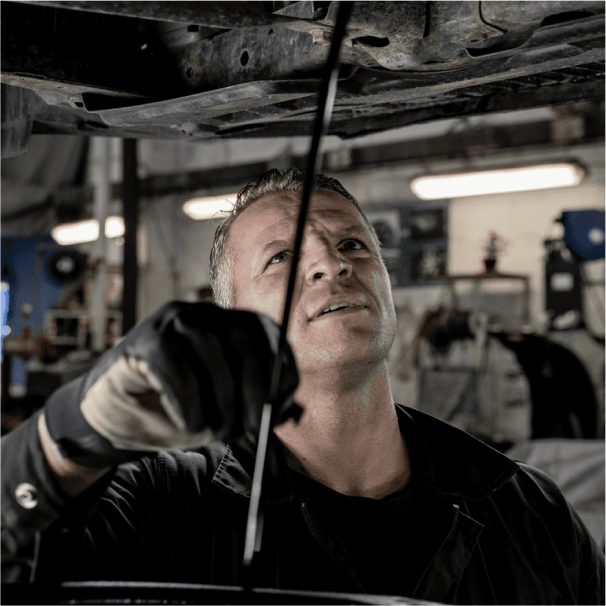
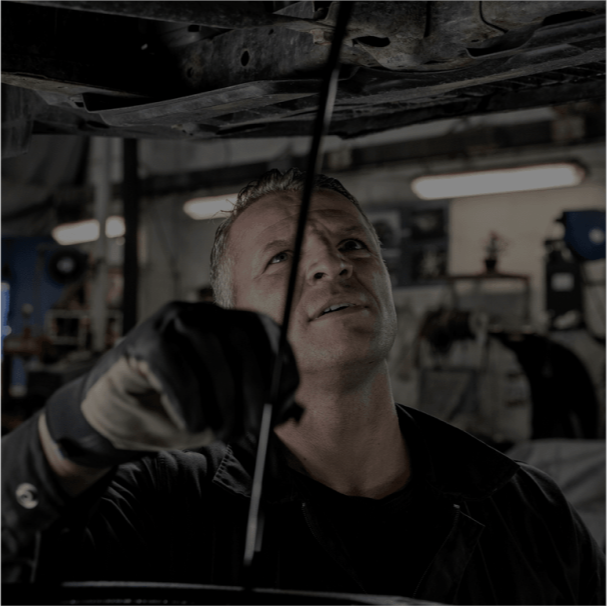
More revisions

diff --git a/src/components/landing/landing-value.tsx b/src/components/landing/landing-value.tsx
@@ -6,29 +6,36 @@ import { Wrench } from "lucide-react";
 const LandingValue = () => {
   return (
     <div>
-      <LandingWrapper className="flex flex-col items-start justify-center text-start py-40">
+      <LandingWrapper className="flex flex-col items-start justify-center text-start py-16 md:py-40">
         <div className="flex flex-col md:flex-row justify-between w-full">
-          <h2 className="text-black text-4xl md:text-5xl font-semibold">
-            Onze waardepropositie
-          </h2>
+          <div className="flex flex-col">
+            <h2 className="text-black text-4xl md:text-5xl font-semibold">
+              Onze waardepropositie
+            </h2>
+            <p className="text-lg text-black/60 w-full md:w-[55%] mt-4">
+              Ontdek onze waardepropositie - een toewijding aan uitmuntendheid,
+              topklasse professionals en de beste gereedschappen om ervoor te
+              zorgen dat uw voertuig ongeëvenaarde zorg ontvangt.
+            </p>
+          </div>
           <Button size="xl" className=" uppercase mt-8 md:mt-0 w-fit">
-            Leer meer over ons.
+            Leer meer over ons
           </Button>
         </div>
 
-        <div className="flex flex-col md:flex-row justify-between gap-10 md:gap-10 w-full mt-20">
+        <div className="flex flex-col md:flex-row justify-between gap-5 md:gap-10 w-full mt-12 md:mt-20">
           <div className="w-full py-20 md:py-20 flex items-center justify-center bg-[#f0f0f0] shadow-sm rounded-xl px-4">
             <div className="flex flex-col items-center text-center">
               <Image
-                width={75}
-                height={75}
+                width={90}
+                height={90}
                 src="/icons/professional.svg"
                 alt="Facebook"
               />
               <h3 className="text-2xl text-black font-medium mt-8">
                 Topklasse <span className="text-primary">Professionals</span>
               </h3>
-              <p className="text-black/60 text-lg w-full">
+              <p className="text-black/60 text-lg w-full mt-3">
                 Ervaren professionals van topklasse, toonaangevend in
                 deskundigheid en hoogwaardige servicekwaliteit voor een
                 ongeëvenaarde auto-ervaring.
@@ -39,8 +46,8 @@ const LandingValue = () => {
           <div className="w-full py-20 md:py-20 flex items-center justify-center bg-[#f0f0f0] shadow-sm rounded-xl px-4">
             <div className="flex flex-col items-center text-center">
               <Image
-                width={75}
-                height={75}
+                width={90}
+                height={90}
                 src="/icons/perform.svg"
                 alt="Facebook"
               />
@@ -48,7 +55,7 @@ const LandingValue = () => {
                 Toewijding om te <span className="text-primary">presteren</span>
                 .
               </h3>
-              <p className="text-black/60 text-lg w-full">
+              <p className="text-black/60 text-lg w-full mt-3">
                 Toewijding aan uitzonderlijke prestaties, altijd strevend naar
                 perfectie en klanttevredenheid met betrouwbare dienstverlening.
               </p>
@@ -58,15 +65,15 @@ const LandingValue = () => {
           <div className="w-full py-20 md:py-20 flex items-center justify-center bg-[#f0f0f0] shadow-sm rounded-xl px-4">
             <div className="flex flex-col items-center text-center">
               <Image
-                width={75}
-                height={75}
+                width={90}
+                height={90}
                 src="/icons/tool.svg"
                 alt="Facebook"
               />
               <h3 className="text-2xl text-black font-medium mt-8">
                 Beste <span className="text-primary">gereedschappen</span>.
               </h3>
-              <p className="text-black/60 text-lg w-full">
+              <p className="text-black/60 text-lg w-full mt-3">
                 Gebruik van geavanceerde en hoogwaardige gereedschappen,
                 garanderend dat uw voertuig de best mogelijke zorg en service
                 ontvangt.

diff --git a/src/components/landing/landing-footer.tsx b/src/components/landing/landing-footer.tsx
@@ -1,21 +1,13 @@
+import { Clock, Mail, MapPin, Phone } from "lucide-react";
 import Image from "next/image";
-import LandingWrapper from "../wrapper/landing-wrapper";
-import {
-  Clock,
-  Facebook,
-  Linkedin,
-  Mail,
-  MapPin,
-  Phone,
-  Twitter,
-} from "lucide-react";
-import { Separator } from "../ui/separator";
 import Link from "next/link";
+import { Separator } from "../ui/separator";
+import LandingWrapper from "../wrapper/landing-wrapper";
 
 const LandingFooter = () => {
   return (
-    <footer className="pt-32 pb-20 bg-black">
-      <LandingWrapper className="flex flex-col items-start justify-center text-start">
+    <footer className="pt-20 md:pt-32 pb-12 md:pb-20 bg-black">
+      <LandingWrapper className="flex flex-col items-start justify-center text-start px-6 md:px-20 xl:px-20 2xl:px-40">
         <div className="w-full flex flex-col md:flex-row gap-10 md:gap-0 md:justify-between">
           <div className="md:hidden">
             <Image width={120} height={70} src="/images/logo.png" alt="Logo" />
@@ -29,17 +21,17 @@ const LandingFooter = () => {
               Vind Ons
             </h4>
             <div className="flex flex-row space-x-4 mt-6 items-start">
-              <MapPin />
+              <MapPin color="#FF8710" />
               <p>
                 Industry road 101 8071DD <br /> Nunspeet
               </p>
             </div>
             <div className="flex flex-row space-x-4 mt-6">
-              <Phone />
+              <Phone color="#FF8710" />
               <p>0341-251 300</p>
             </div>
             <div className="flex flex-row space-x-4 mt-6">
-              <Mail />
+              <Mail color="#FF8710" />
               <p>info@autoschades.nl</p>
             </div>
           </div>
@@ -49,13 +41,13 @@ const LandingFooter = () => {
               Openingstijden
             </h4>
             <div className="flex flex-row space-x-4 mt-6 items-start">
-              <Clock />
+              <Clock color="#FF8710" />
               <p>
                 Maandag tot en met vrijdag <br /> 07.00 - 17.00 uur
               </p>
             </div>
             <div className="flex flex-row items-start space-x-4 mt-6">
-              <Clock />
+              <Clock color="#FF8710" />
               <p>
                 Zaterdag <br /> 07.00 - 13.00 uur
               </p>
@@ -101,8 +93,8 @@ const LandingFooter = () => {
             </p>
           </div>
         </div>
-        <Separator className="bg-white/10 mt-20" orientation="horizontal" />
-        <div className="flex flex-col md:flex-row w-full justify-between text-center md:text-start text-sm md:text-base text-white/50 mt-20">
+        <Separator className="bg-white/10 mt-10 md:mt-20" orientation="horizontal" />
+        <div className="flex flex-col md:flex-row w-full justify-between text-center md:text-start text-sm md:text-base text-white/50 mt-10 md:mt-20">
           <p>AUTOSCHADES.NL © 2023 Alle rechten voorbehouden</p>
 
           <div className="flex flex-col md:flex-row gap-4 md:gap-8 mt-6 md:mt-0">

diff --git a/src/components/landing/landing-services.tsx b/src/components/landing/landing-services.tsx
@@ -6,13 +6,14 @@ import { ArrowRight } from "lucide-react";
 const LandingServices = () => {
   return (
     <div className="">
-      <LandingWrapper className=" bg-[#FFE6CC] flex flex-col items-start justify-center text-start py-20 md:py-40">
+      <LandingWrapper className=" bg-[#FFE6CC] flex flex-col items-start justify-center text-start py-20 md:py-40 px-5 md:px-20 xl:px-20 2xl:px-40">
         <h2 className="text-black text-5xl font-semibold">
           Onze diensten en producten.
         </h2>
         <p className="text-lg text-black/60 mt-6">
-          Ontdek onze diensten en producten voor topzorg aan uw auto, <br /> met
-          ervaren professionals en moderne apparatuur.
+          Ontdek onze diensten en producten voor topzorg aan uw auto,{" "}
+          <br className="hidden md:block" /> met ervaren professionals en
+          moderne apparatuur.
         </p>
 
         <div className="w-full flex flex-col md:flex-row gap-10 md:gap-12 xl:gap-4 2xl:gap-8 mt-20">
@@ -28,7 +29,7 @@ const LandingServices = () => {
                 UITGEBREIDE AUTO REPARATIES VOOR ALLE MERKEN EN MODELLEN.
               </h4>
               <Button size="xl" className=" uppercase mt-4">
-                Bekijk onze diensten.
+                Bekijk onze diensten
                 <ArrowRight className="ml-2" />
               </Button>
             </div>
@@ -46,7 +47,7 @@ const LandingServices = () => {
                 KWALITEIT AUTOMOBIEL ACCESSOIRES VOOR VERBETERDE PRESTATIES.
               </h4>
               <Button size="xl" className=" uppercase mt-4">
-                Bekijk onze producten.
+                Bekijk onze producten
                 <ArrowRight className="ml-2" />
               </Button>
             </div>
@@ -64,7 +65,7 @@ const LandingServices = () => {
                 UITGEBREID ONDERHOUD VOOR OPTIMALE VOERTUIGPRESTATIES.
               </h4>
               <Button size="xl" className=" uppercase mt-4">
-                Bekijk onze producten.
+                Bekijk onze producten
                 <ArrowRight className="ml-2" />
               </Button>
             </div>

diff --git a/src/components/landing/landing-about.tsx b/src/components/landing/landing-about.tsx
@@ -6,18 +6,21 @@ import { ArrowUpRight } from "lucide-react";
 const LandingAbout = () => {
   return (
     <div id="start">
-      <LandingWrapper className="flex flex-col items-start justify-center text-start py-40">
-        <h2 className="text-black text-4xl md:text-5xl font-semibold">
+      <LandingWrapper className="flex flex-col items-start justify-center text-start pt-24 pb-16 md:pt-40 md:pb-40">
+        <h2 className="text-black text-4xl md:text-5xl font-semibold md:hidden">
           Welkom bij ons auto <br /> reparatiecentrum.
         </h2>
 
-        <div className="w-full flex flex-col md:flex-row mt-12 gap-20 items-center">
+        <div className="w-full flex flex-col md:flex-row mt-4 md:mt-12 gap-12 md:gap-20 items-center">
           <div>
-            <h4 className="mb-4 md:mb-8 text-2xl text-black font-medium">
+            {/* <h4 className="mb-8 hidden md:block text-2xl text-black font-medium">
               WELKOM BIJ EEN NIEUW NIVEAU VAN <br className="hidden md:block" />{" "}
               AUTO REPARATIE-UITMUNTENDHEID.
-            </h4>
-            <p className="text-lg text-black/60 w-full md:w-[75%]">
+            </h4> */}
+            <h2 className="text-black text-4xl md:text-5xl font-semibold hidden md:block">
+              Welkom bij ons auto <br /> reparatiecentrum.
+            </h2>
+            <p className="text-lg text-black/60 w-full md:w-[75%] md:mt-10">
               Van routinematig onderhoud tot complexe reparaties, wij beschikken
               over de expertise en geavanceerde apparatuur om u veilig en snel
               weer op weg te helpen. Ervaar het verschil van samenwerken met
@@ -25,7 +28,7 @@ const LandingAbout = () => {
             </p>
 
             <Button size="xl" className=" uppercase mt-8 md:mt-12">
-              Leer meer over ons.
+              Leer meer over ons
               <ArrowUpRight className="ml-2" />
             </Button>
           </div>

diff --git a/src/components/landing/landing-nav-mobile.tsx b/src/components/landing/landing-nav-mobile.tsx
@@ -1,8 +1,15 @@
-import { Menu } from "lucide-react";
+"use client";
+
+import { Menu, X } from "lucide-react";
 import Image from "next/image";
 import LandingWrapper from "../wrapper/landing-wrapper";
+import Link from "next/link";
+import { useState } from "react";
+import { landingNavLinks } from "@/app/constants";
 
 const LandingNavMobile = () => {
+  const [toggle, setToggle] = useState(false);
+
   return (
     <nav className="z-50 absolute w-full flex flex-col py-4">
       <LandingWrapper className="flex flex-row justify-between items-center">
@@ -10,8 +17,29 @@ const LandingNavMobile = () => {
           <Image width={150} height={75} src="/images/logo.png" alt="Logo" />
         </div>
 
-        <div className="flex w-12 h-12 rounded-xl items-center justify-center bg-primary">
-          <Menu color="white" />
+        <div onClick={() => setToggle((prev) => !prev)} className="md:hidden">
+          <div className="w-12 h-12 rounded-xl bg-primary flex items-center justify-center">
+            {toggle ? <X color="white" /> : <Menu color="white" />}
+          </div>
+        </div>
+
+        <div
+          className={`${
+            toggle ? "flex" : "hidden"
+          } p-6 bg-primary absolute top-20 right-0 mx-4 my-2 min-w-[140px] rounded-xl z-20`}
+        >
+          <ul className="list-none flex-col justify-end items-center flex-1">
+            {landingNavLinks.map((nav, index) => (
+              <li
+                key={nav.title}
+                className={`font-dmSans font-normal cursor-pointer text-[16px] ${
+                  index === landingNavLinks.length - 1 ? "mr-0" : "mb-4"
+                } text-white mr-10`}
+              >
+                <Link href={`${nav.href}`}>{nav.title}</Link>
+              </li>
+            ))}
+          </ul>
         </div>
       </LandingWrapper>
     </nav>

diff --git a/src/components/landing/landing-hero.tsx b/src/components/landing/landing-hero.tsx
@@ -11,16 +11,16 @@ const LandingHero = () => {
     <div className="">
       <LandingWrapper className="flex flex-col items-center justify-center text-start">
         <div className="z-10 w-full items-start justify-center flex flex-col -mt-10 md:-mt-10 h-screen">
-          <p className="mt-2 md:mt-5 w-full md:w-[60%] text-xl md:text-xl text-white text-start">
+          <p className="w-full md:w-[60%] text-lg md:text-xl text-white/70 text-start">
             EXPERT AUTO REPARATIES VOOR ELKE BEHOEFTE.
           </p>
-          <h1 className="md:max-w-5xl text-5xl font-semibold md:text-6xl lg:text-[72px] lg:leading-[1.2] text-white mt-6 md:mt-6">
+          <h1 className="md:max-w-5xl text-5xl font-semibold md:text-6xl lg:text-[72px] lg:leading-[1.2] text-white mt-2 md:mt-2">
             Rijd met <span className="text-primary">vertrouwen</span>.
           </h1>
           <h1 className="md:max-w-5xl text-5xl font-semibold md:text-6xl lg:text-[72px] lg:leading-[1.2] text-white md:-mt-0">
             Kies voor <span className="text-primary">ons</span>.
           </h1>
-          <p className="mt-6 md:mt-5 w-full lg:w-[60%] xl:w-[50%] 2xl:w-[40%] text-lg md:text-lg text-white text-start">
+          <p className="mt-4 md:mt-5 w-full lg:w-[60%] xl:w-[50%] 2xl:w-[40%] text-lg md:text-lg text-white text-start">
             Vertrouw op onze bekwame technici om ervoor te zorgen dat uw
             voertuig soepel en veilig blijft rijden met eersteklas auto
             reparatiediensten.

diff --git a/src/components/landing/landing-testimonials.tsx b/src/components/landing/landing-testimonials.tsx
@@ -4,9 +4,9 @@ import Image from "next/image";
 
 const LandingTestimonials = () => {
   return (
-    <div className="w-full py-40">
+    <div className="w-full py-16 md:py-40">
       <LandingWrapper className="flex flex-col items-start justify-center text-start">
-        <div className="flex flex-col w-full items-center justify-center text-start md:text-center mb-20">
+        <div className="flex flex-col w-full items-center justify-center text-start md:text-center mb-10 md:mb-20">
           <h2 className="text-black text-4xl md:text-5xl font-semibold">
             Wat onze klanten zeggen
           </h2>
@@ -16,7 +16,7 @@ const LandingTestimonials = () => {
           </p>
         </div>
 
-        <div className="flex flex-col md:flex-row gap-8 xl:gap-8 2xl:gap-12 mt-10 xl:mt-8 2xl:mt-10">
+        <div className="flex flex-col md:flex-row gap-5 xl:gap-8 2xl:gap-12 mt-0 xl:mt-8 2xl:mt-10">
           <div className="bg-[#F6F6F6] p-8 rounded-2xl w-full">
             <Quote fill="black" />
             <p className="mt-4 text-lg">
@@ -66,7 +66,7 @@ const LandingTestimonials = () => {
           </div>
         </div>
 
-        <div className="flex flex-col md:flex-row gap-8 xl:gap-8 2xl:gap-12 mt-10 xl:mt-8 2xl:mt-10">
+        <div className="flex flex-col md:flex-row gap-5 xl:gap-8 2xl:gap-12 mt-5 xl:mt-8 2xl:mt-10">
           <div className="bg-[#F6F6F6] p-8 rounded-2xl w-full">
             <Quote fill="black" />
             <p className="mt-4 text-lg">

diff --git a/src/components/landing/landing-makes.tsx b/src/components/landing/landing-makes.tsx
@@ -5,14 +5,15 @@ import Image from "next/image";
 const LandingMakes = () => {
   return (
     <div className="w-full bg-primary py-16 md:py-24">
-      <LandingWrapper className="flex flex-col items-start justify-center text-start">
+      <LandingWrapper className="flex flex-col items-center md:items-start justify-center text-center md:text-start">
         <div className="flex flex-col md:flex-row justify-between w-full">
-          <h3 className="text-white text-4xl font-semibold">
+          <h3 className="text-white text-3xl md:text-4xl font-semibold">
             Merken die wij onderhouden.
           </h3>
 
-          <p className="text-lg text-white mt-8 md:mt-0">
-            Wij onderhouden uw voertuig.
+          <p className="text-base md:text-lg text-white/80 mt-4 md:mt-0 w-full md:w-[40%]">
+            Wij zorgen voor uw voertuig met deskundig onderhoud en geavanceerde
+            apparatuur voor optimale prestaties en betrouwbare service.
           </p>
         </div>
       </LandingWrapper>

diff --git a/src/app/constants/index.ts b/src/app/constants/index.ts
@@ -1,0 +1,19 @@
+export const landingNavLinks = [
+    {
+      href: "/",
+      title: "DIENSTEN",
+    },
+    {
+      href: "/",
+      title: "PRODUCTEN",
+    },
+    {
+      href: "/",
+      title: "OVER ONS",
+    },
+    {
+      href: "/",
+      title: "ONS TEAM",
+    },
+  ];
+  
